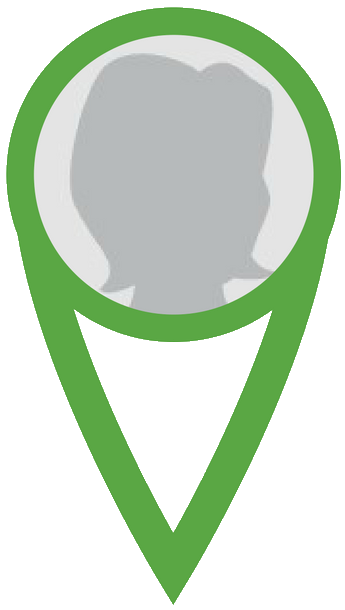
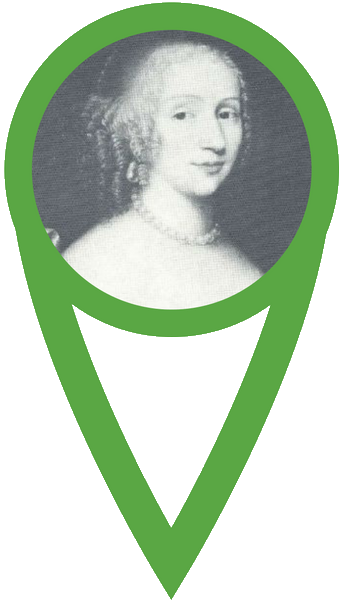
Ajout API wikipedia

diff --git a/Marathon_App/JS/api_dbpedia.js b/Marathon_App/JS/api_dbpedia.js
@@ -1,0 +1,118 @@
+femmes_wiki = function(){
+	
+	var femmesMuse = ["Marie","Maria of Montpellier","Françoise de Cezelli","Jeanne Galzy","Juliette Gréco","Hélène Mandroux",
+	"Rose-Eliandre Bellemare","Véronique Vendell"] //liste des femmes deja presentes dans le muse. Pb d'affichage wiki pour 2 dernieres
+	
+	///// Femmes originaires de Montpellier sur Wikipedia /////
+	var url = "http://dbpedia.org/sparql?default-graph-uri=http%3A%2F%2Fdbpedia.org&query="; 
+	var query = [
+		"PREFIX owl: <http://www.w3.org/2002/07/owl#>",
+		"PREFIX rdfs: <http://www.w3.org/2000/01/rdf-schema#>",
+		"PREFIX foaf: <http://xmlns.com/foaf/0.1/>",
+		"PREFIX : <http://dbpedia.org/resource/>",
+		"PREFIX dbpedia2: <http://dbpedia.org/property/>",
+		"PREFIX dbpedia: <http://dbpedia.org/>",
+		"SELECT ?name ?birth ?description ?siteWiki ?image ?name",
+		"WHERE {?person a dbo:Person.",
+		"?person dbo:birthPlace :Montpellier.",
+		"?person dbo:birthDate ?birth.",
+		"?person foaf:name ?name.",
+		"?person foaf:isPrimaryTopicOf ?siteWiki.",
+		"?person foaf:depiction ?image.",
+		"?person rdfs:comment ?description.",
+		"?person foaf:gender ?gender.",
+		"FILTER (LANG(?description) = 'fr' && regex(?gender, 'female')).}",
+		"ORDER BY ?birth"].join("");
+	var queryUrl = url+ encodeURIComponent(query)+ "&output=json" ; // Requete SPARQL pour dbpedia
+  
+	var femmesDejaVu = []; //Femmes deja introduites dans le html
+	// Requete Fetch avec l'Url 
+	fetch(queryUrl).then(function(response) {
+		if (!response.ok) {
+			alert("Erreur de la requete");
+		}
+		else{
+			return response.json().then(function(json) {
+				liste_femmes_json = json.results;
+				//console.log(liste_femmes_json);
+				var lesFemmesHtml ="";
+				
+				for (i = 0; i < Object.keys(liste_femmes_json.bindings).length; i++) {
+					if(femmesMuse.indexOf(liste_femmes_json.bindings[i]["name"].value) <= -1){ //Si la femme n'est pas deja dans la liste du musee
+						if(femmesDejaVu.indexOf(liste_femmes_json.bindings[i]["name"].value) <= -1){ // Si la femme n'est pas déja mise dans le html
+							lesFemmesHtml += '<div class="well wikipedia"><div class="media"><div class="media-left">'+
+							'<img src="' +liste_femmes_json.bindings[i]["image"].value + '" width="100"/></div><div class="media-body"><h4 class="media-heading">'+
+							'<a href="'+liste_femmes_json.bindings[i]["siteWiki"].value+'">'+liste_femmes_json.bindings[i]["name"].value+'</a></h4>'+
+							'<p><b>Date de naissance :</b> <br />'+liste_femmes_json.bindings[i]["birth"].value+'</p>'+
+							'<p><b>Biographie : </b><br />'+liste_femmes_json.bindings[i]["description"].value+'</p></div></div></div>';
+							femmesDejaVu.push(liste_femmes_json.bindings[i]["name"].value);
+						}
+					}
+				}
+
+				var femmesWikiContainer = document.getElementById('femmesWiki');
+				femmesWikiContainer.innerHTML = '<h4>Nous avons retrouvé '+ femmesDejaVu.length+' autres femmes originaires de Montpellier :</h4>'+lesFemmesHtml;
+				})
+		}
+	})
+	
+	
+	
+	
+	
+		///// Femmes qui sont passées par la ville de Montpellier /////
+		// On recherche Montpellier dans le "comment" des femmes française
+	var url = "http://dbpedia.org/sparql?default-graph-uri=http%3A%2F%2Fdbpedia.org&query="; 
+	var query2 = [
+		"PREFIX owl: <http://www.w3.org/2002/07/owl#>",
+		"PREFIX rdfs: <http://www.w3.org/2000/01/rdf-schema#>",
+		"PREFIX foaf: <http://xmlns.com/foaf/0.1/>",
+		"PREFIX : <http://dbpedia.org/resource/>",
+		"PREFIX dbpedia2: <http://dbpedia.org/property/>",
+		"PREFIX dbpedia: <http://dbpedia.org/>",
+		"SELECT ?name ?birth ?description ?siteWiki ?image ?name",
+		"WHERE {?person a dbo:Person.",
+		"?person dbo:nationality:France.",
+		"?person dbo:birthDate ?birth.",
+		"?person foaf:name ?name.",
+		"?person foaf:isPrimaryTopicOf ?siteWiki.",
+		"?person foaf:depiction ?image.",
+		"?person rdfs:comment ?description.",
+		"?person foaf:gender ?gender.",
+		"FILTER (LANG(?description) = 'fr' && regex(?gender, 'female') && regex(?description,'Montpellier')).}",
+		"ORDER BY ?birth"].join("");
+	var queryUrl2 = url+ encodeURIComponent(query2)+ "&output=json" ; // Requete SPARQL pour dbpedia
+  
+	// Requete Fetch avec l'Url 
+	fetch(queryUrl2).then(function(response) {
+		if (!response.ok) {
+			alert("Erreur de la requete");
+		}
+		else{
+			return response.json().then(function(json) {
+				liste_femmes_json = json.results;
+				//console.log(liste_femmes_json);
+				var lesFemmesHtml2 ="";
+				var femmesDejaVu2 = []; //Femmes deja introduites dans le html
+				
+				for (i = 0; i < Object.keys(liste_femmes_json.bindings).length; i++) {
+					if(femmesMuse.indexOf(liste_femmes_json.bindings[i]["name"].value) <= -1){ //Si la femme n'est pas deja dans la liste du musee
+						if(femmesDejaVu.indexOf(liste_femmes_json.bindings[i]["name"].value) <= -1){ // Si la femme n'est pas déja mise dans le html
+							if(femmesDejaVu2.indexOf(liste_femmes_json.bindings[i]["name"].value) <= -1){ // Si la femme n'est pas déja mise dans le html
+								lesFemmesHtml2 += '<div class="well wikipedia"><div class="media"><div class="media-left">'+
+								'<img src="' +liste_femmes_json.bindings[i]["image"].value + '" width="100"/></div><div class="media-body"><h4 class="media-heading">'+
+								'<a href="'+liste_femmes_json.bindings[i]["siteWiki"].value+'">'+liste_femmes_json.bindings[i]["name"].value+'</a></h4>'+
+								'<p><b>Date de naissance :</b> <br />'+liste_femmes_json.bindings[i]["birth"].value+'</p>'+
+								'<p><b>Biographie : </b><br />'+liste_femmes_json.bindings[i]["description"].value+'</p></div></div></div>';
+								femmesDejaVu2.push(liste_femmes_json.bindings[i]["name"].value);
+							}
+						}
+					}
+				}
+
+				var femmesWikiContainer = document.getElementById('femmesWiki2');
+				femmesWikiContainer.innerHTML = '<h4>Nous avons retrouvé '+ femmesDejaVu2.length+' femmes qui parlent de Montpellier :</h4>'+lesFemmesHtml2;
+				})
+		}
+	})
+}

diff --git a/Marathon_App/fusionner_a_index.html b/Marathon_App/fusionner_a_index.html
@@ -1,0 +1,46 @@
+<html>
+    <head>
+        <meta charset="utf-8">
+        <title>Leflet</title>
+		
+        <link rel="stylesheet" href="CSS/leaflet.css" />
+		<link rel="stylesheet" href="CSS/wiki.css" />
+        <script src="JS/leaflet.js"></script>
+		
+		<script src="JS/d3.v4.js"> </script> 
+		<script src="bootstrap/jQuery.js"></script> 
+		<script src="bootstrap/jqueryFX.custom/jquery-ui.js"></script>  
+		<script src="bootstrap/jqueryFX.custom/jquery-ui.min.js"></script> 
+		<link rel="stylesheet" href="bootstrap/bootstrap/css/bootstrap.min.css"><!-- style Bootstrap v3.3.7 -->
+		<!-- Bootstrap v3.3.7 --><script src="bootstrap/bootstrap/js/bootstrap.min.js"></script>  
+		<script src="JS/maps_femme.js"></script> 
+		<script src="JS/api_dbpedia.js"></script> 
+		
+    </head>
+    <body onload="initmap();actumap();femmes_wiki()">
+		<form id="selectPeriod" name="form1">
+			<h3>Faites votre sélection :</h3>
+			<label class="checkbox-inline"><input type="checkbox" value="1" name="periode">Figures féminines légendaires</label>
+			<label class="checkbox-inline"><input type="checkbox" value="2" name="periode">Moyen-Age</label>
+			<label class="checkbox-inline"><input type="checkbox" value="3" name="periode">Femmes du 16e siècle</label>
+			<label class="checkbox-inline"><input type="checkbox" value="4" name="periode">Femmes du 17e siècle</label>
+			<label class="checkbox-inline"><input type="checkbox" value="5" name="periode">Femmes du 18e siècle</label>
+			<label class="checkbox-inline"><input type="checkbox" value="6" name="periode">Femmes du 19e siècle</label>
+			<label class="checkbox-inline"><input type="checkbox" value="7" name="periode" checked>Femmes du 20e siècle</label>
+			<br>
+			<button type="button" id="button1" onclick="actumap();">Valider</button>
+		</form>
+
+        <div id="mapFemme"></div>
+
+		<div class="well">
+		<h2>Données retrouvées sur le web (Wikipédia)</h2>
+
+			<div id="femmesWiki"  style="overflow: scroll ;height: 500px; width: 100%;" class="tile"></div>
+
+			<div id="femmesWiki2"  style="overflow: scroll ;height: 500px; width: 100%;" class="tile"></div>
+
+		</div>
+		
+    </body>
+</html>

diff --git a/Marathon_App/CSS/wiki.css b/Marathon_App/CSS/wiki.css
@@ -1,0 +1,15 @@
+.well.wikipedia {
+    background-color: #283240;
+	margin-bottom:-1px;
+	color:white;
+}
+
+.well.wikipedia a {
+	color:white;
+	text-decoration:underline;
+}
+
+.well.wikipedia a:hover {
+	color:#EFB105;
+	text-decoration:none;
+}
